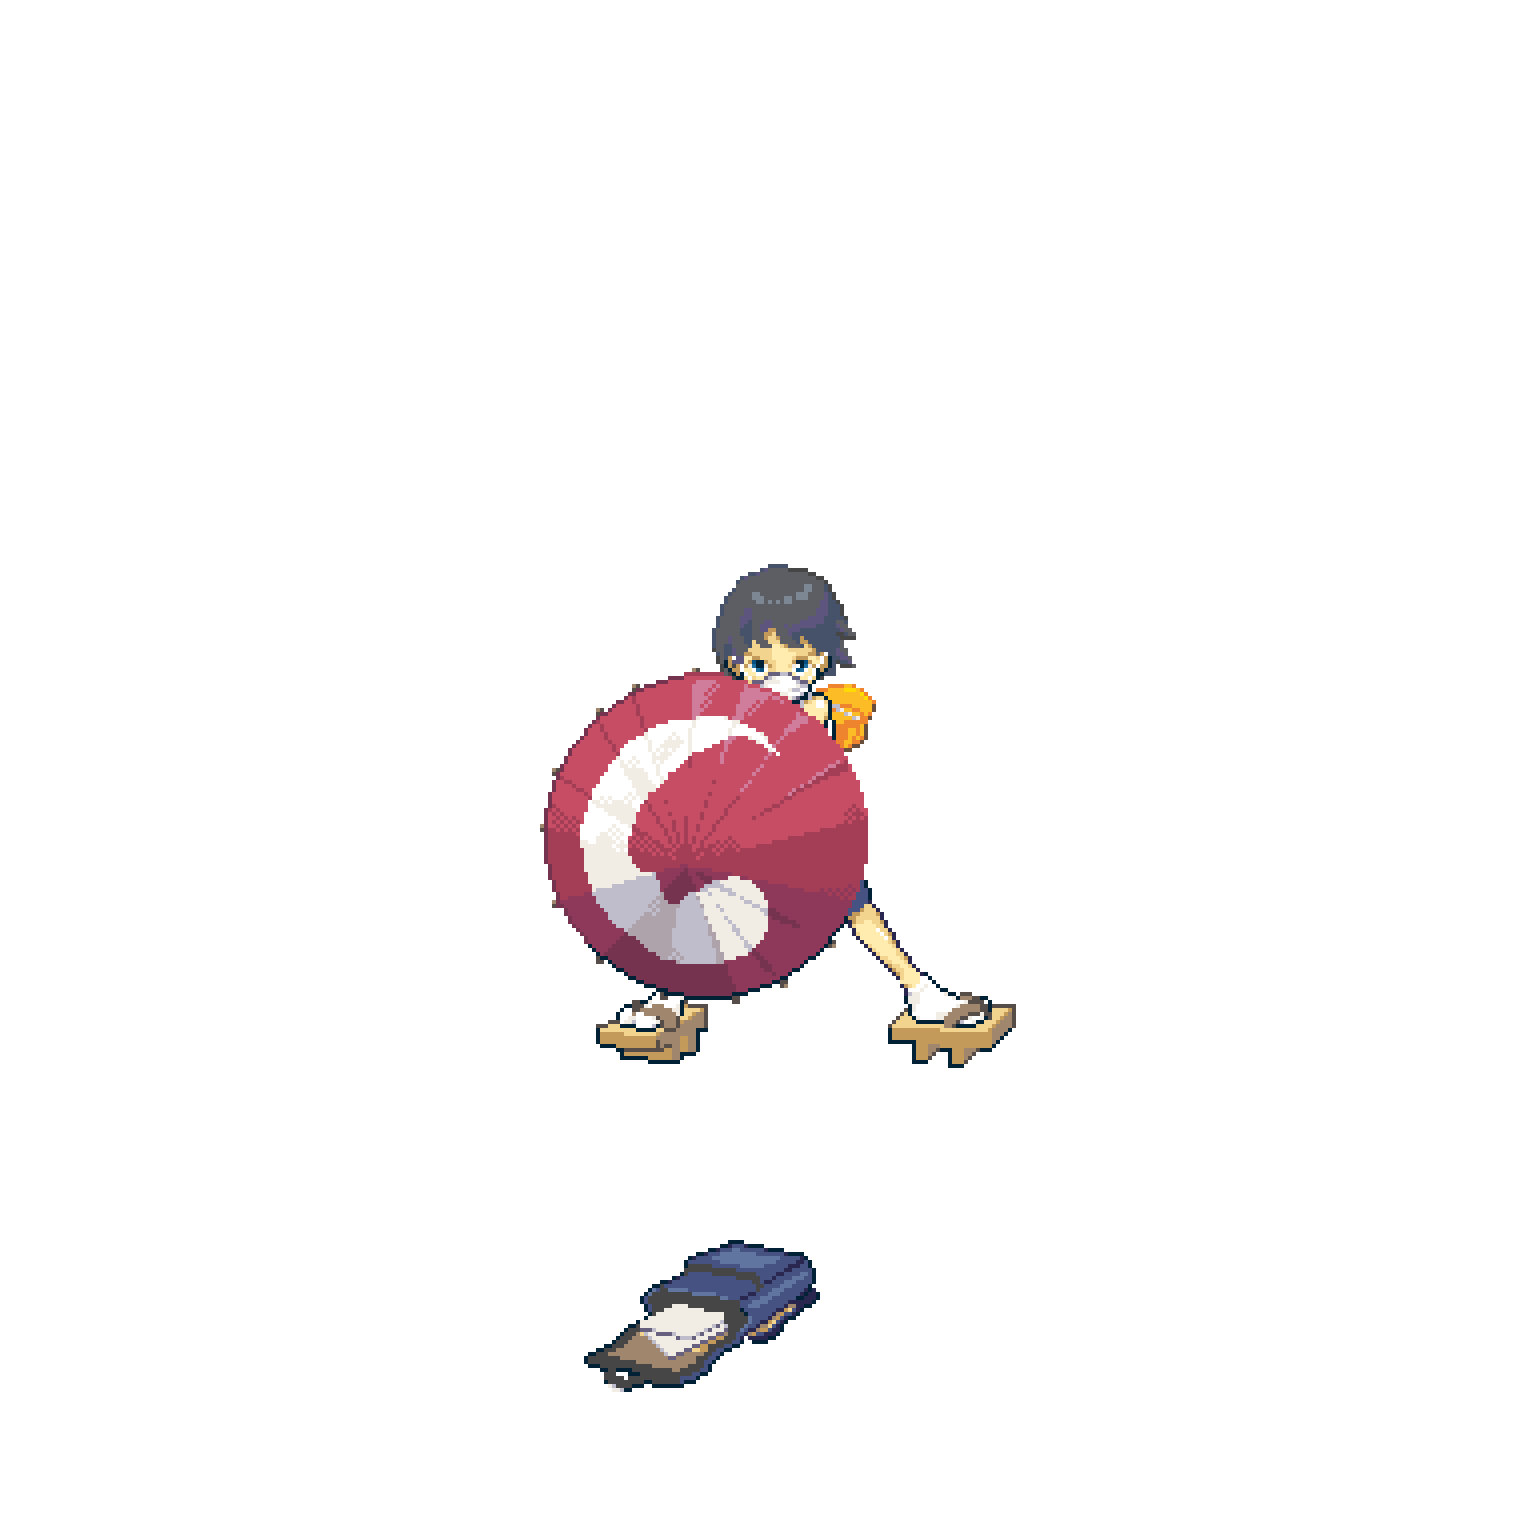
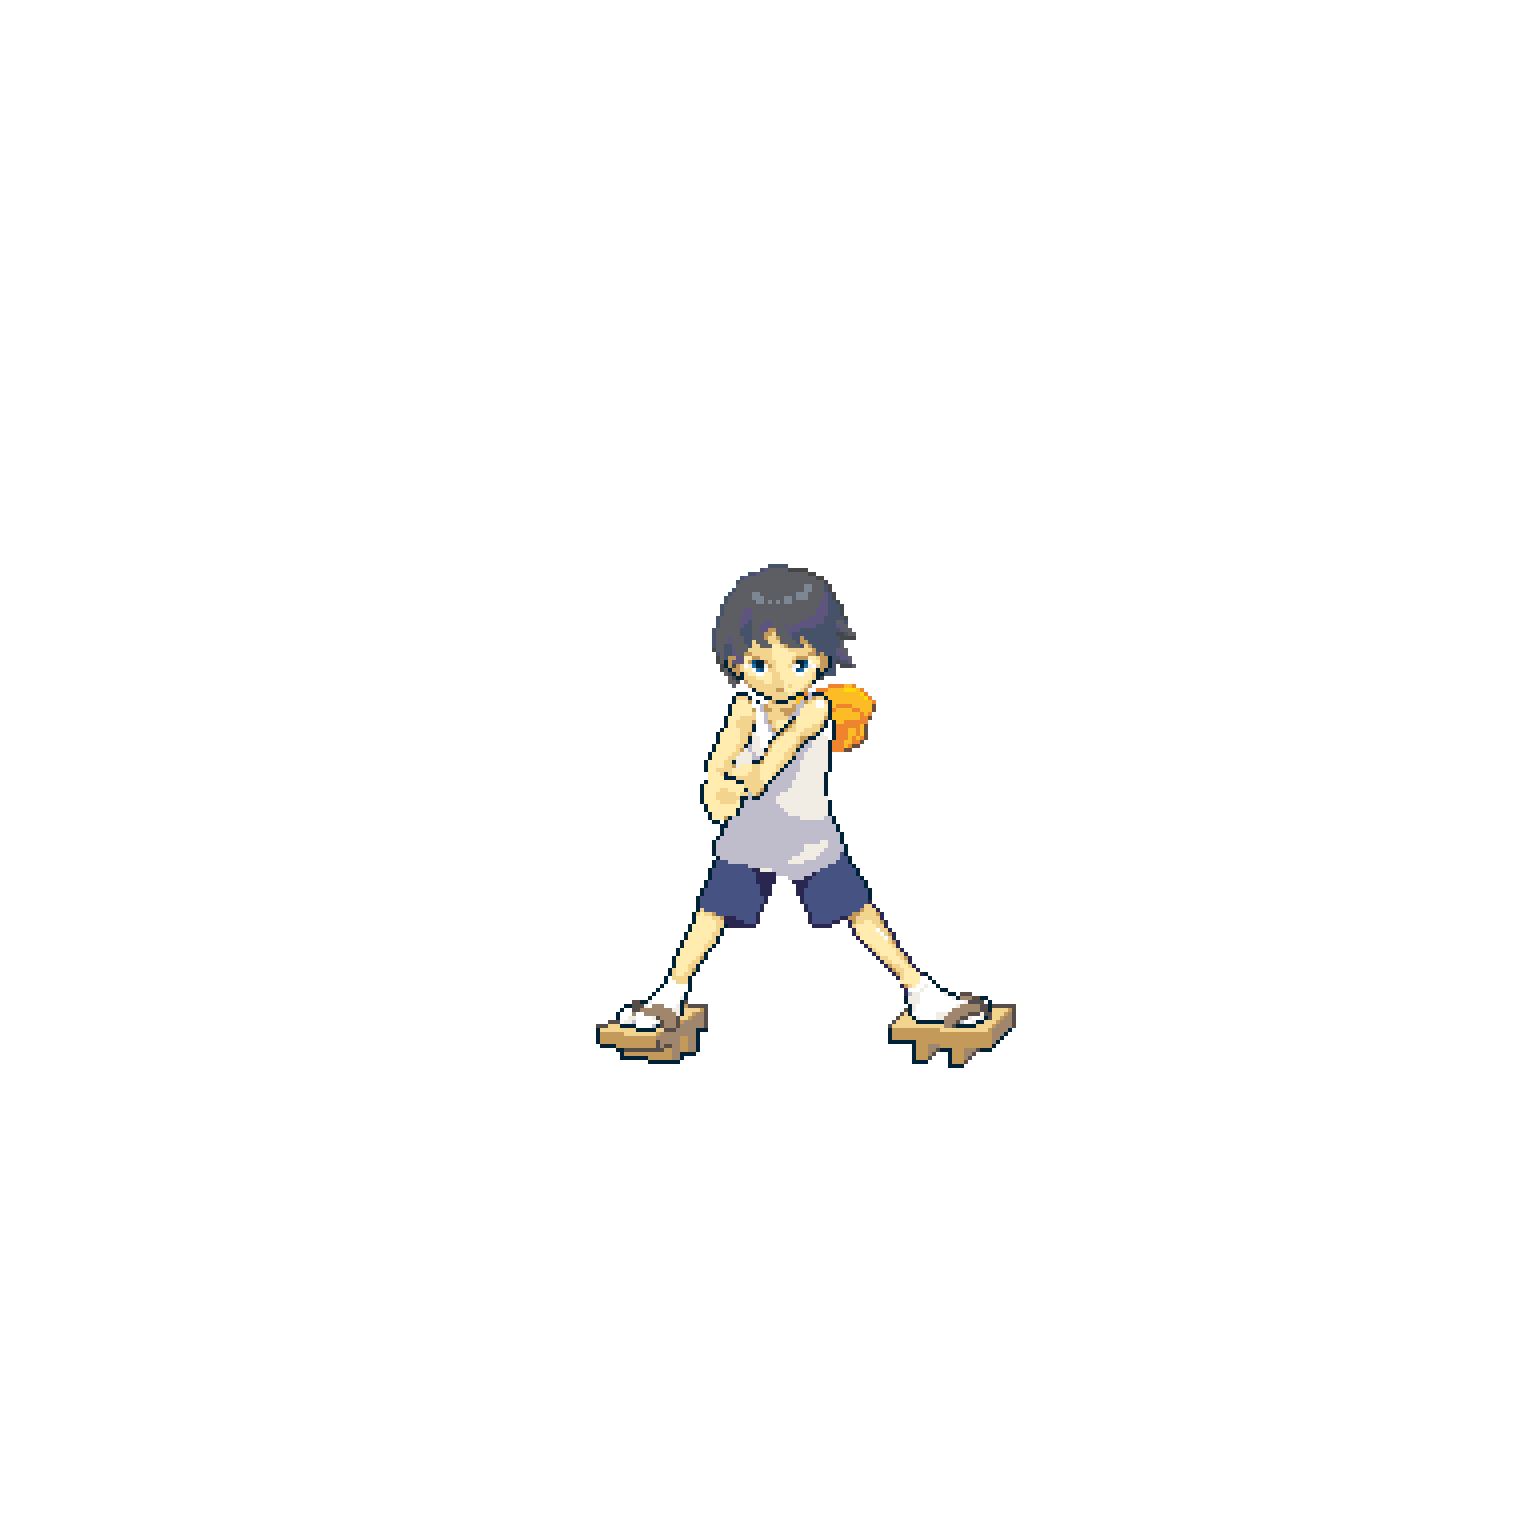
2nd edition - improved eyes, red eyes, green

Changed region(s): [[0.3438, 0.4375, 0.5625, 0.6562], [0.375, 0.7812, 0.5312, 0.9062]]

diff --git a/danmari.js b/danmari.js
@@ -42,16 +42,17 @@ function preload() {
 
     // Images
     imgch = loadImage("kid.png");
-    imgkoideep = loadImage("deepfish.png");
-    imgkoilight = loadImage("lightfish.png");
+    imgmask = loadImage("mask.png");
+    imgumbrella = loadImage("umbrella.png");
+    imgbackpack = loadImage("backpack.png");
     imgkoiblue_nostroke = loadImage("bluefish_noStroke.png");
     imgkoiblue = loadImage("bluefish.png");
     imgkoioutlined = loadImage("fish_outlined.png");
 
     imgkoimain = loadImage("koi.png");
-    imgkoimain_back = loadImage("koi_purpleback.png");
     imgkoimain_white = loadImage("koi_whiteback_wing.png");
     imgfloat = loadImage("floatfront.png");
+    imgfloat_shade = loadImage("floatfront_shade.png");
 
     imgpaper_s = loadImage("paper_small.png");
     imgpaper_l = loadImage("paper_large.png");
@@ -226,6 +227,9 @@ function draw() {
     // plot image 
     image(imgkoimain, 0, 0, width, height);
     image(imgch, 0, 0, width, height);
+    image(imgmask, 0, 0, width, height);
+    image(imgumbrella, 0, 0, width, height);
+    image(imgbackpack, 0, 0, width, height);
 
     // plot sine wave documents
     theta_paper += 0.002;
@@ -238,6 +242,12 @@ function draw() {
     for (let x = 0; x < yvalues_fish.length; x ++) {
         image(imgpaper_outlined, (yvalues_fish.length - x)*xspacing_fish - 20*scal, height-22*scal +yvalues_fish[x]/2, 29*scal, 14*scal);
     }
+
+    // plot frame_shade
+    nzvar_xs = noise(nz_x)*10;
+    nzvar_ys = noise(nz_y)*10;
+    image(imgfloat_shade, -10*scal+nzvar_xs, -10*scal+nzvar_ys, 400*scal, 400*scal);
+    //}
 
     // plot frame
     nzvar_x = noise(nz_x)*20;

diff --git a/index.html b/index.html
@@ -16,7 +16,7 @@
 
 <head>
     <title>
-        だんまりの多動
+        だんまり小学生の多動 -Noisy DANMARI- 
     </title>
 </head>
 
